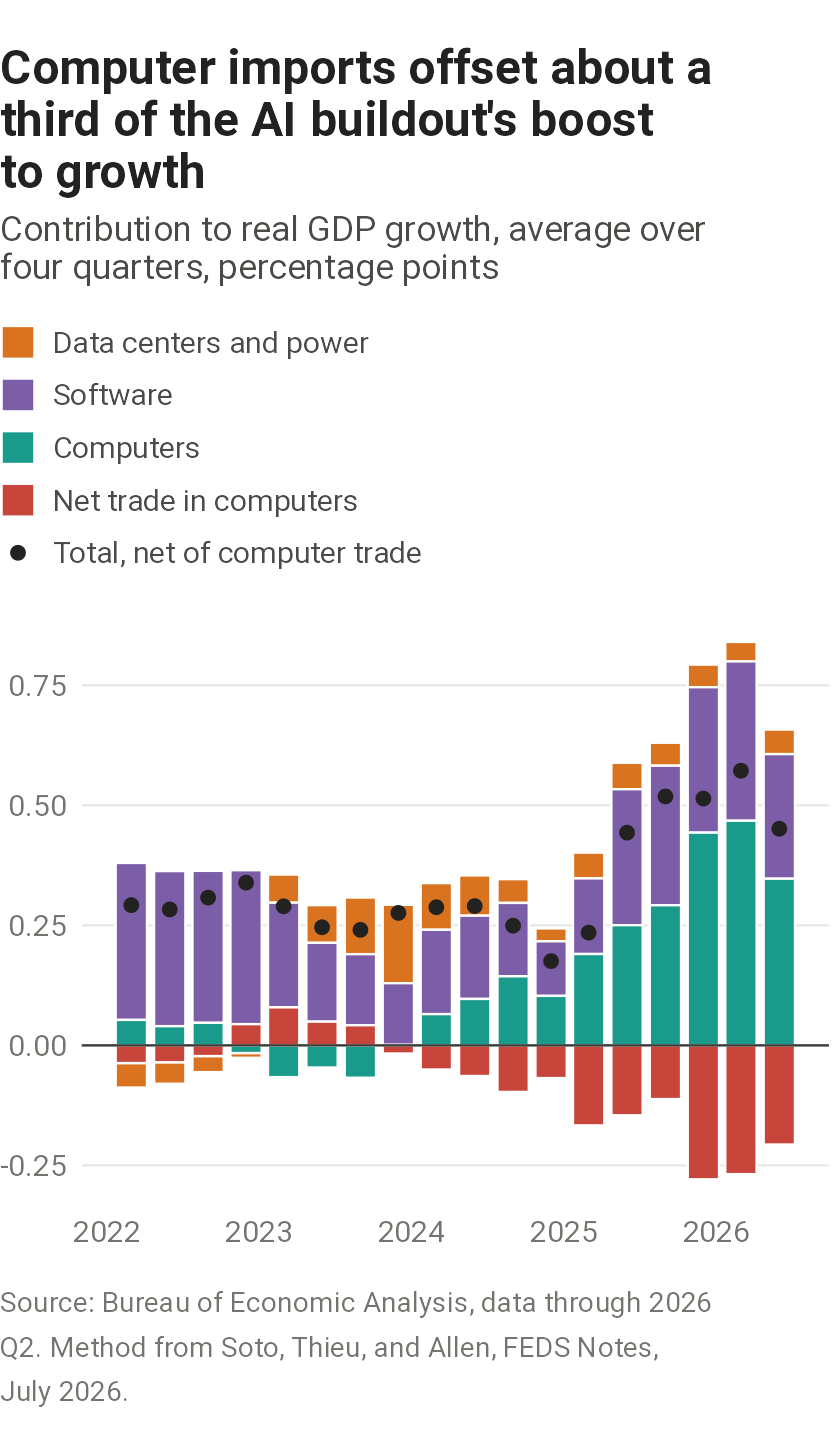
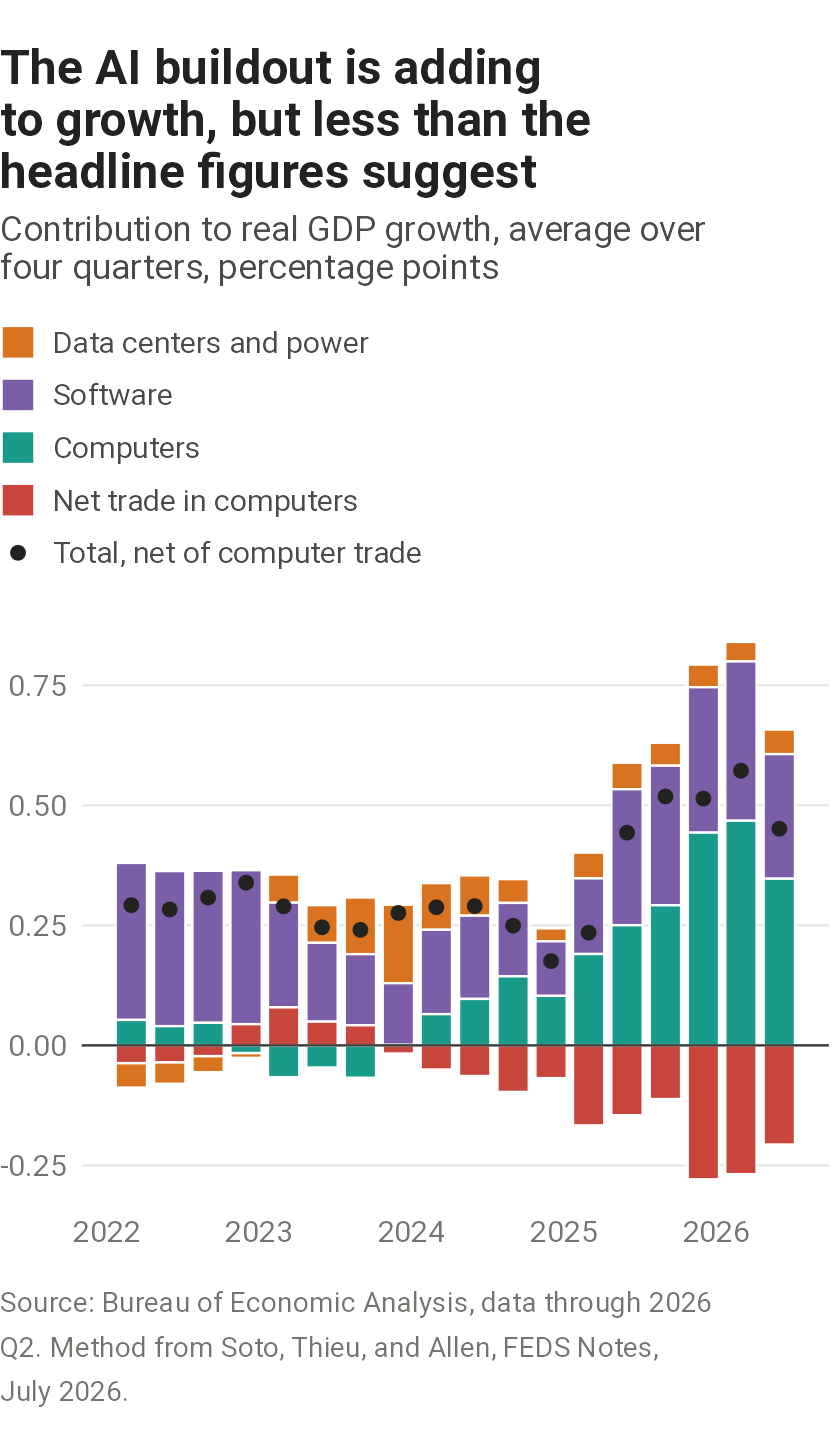
Retitle the AI investment chart to state both points
Claude-Session: https://claude.ai/code/session_01C4kQtTHdakDNHHerQuEFwM

Changed region(s): [[0.0, 0.0312, 0.8667, 0.1562]]

diff --git a/charts/ai-investment-gdp/spec.md b/charts/ai-investment-gdp/spec.md
@@ -168,3 +168,4 @@ As of 2026-09-26. Not yet decided or done.
 - 2026-09-26: The text names the four components rather than calling the total "AI investment", since they also carry spending unrelated to AI: the same components added about 0.3 point a year to growth in 2022 and 2023. The chart subtitle drops "AI-related" for the same reason.
 - 2026-09-26: Plot four-quarter averages instead of quarterly contributions, as the text does, since quarterly bars swing too much to show the trend. Replaces the earlier decision to show quarterly contributions as the note does; `reproduce.R` still checks the quarterly figures. Tried splitting into two charts (gross by component, then gross against net); dropped because the first would stand alone on the headline figure the chart argues is overstated.
 - 2026-09-26: Chart and text use the FEDS method only; title back to "about a third." The alternatives (BEA domestic-use weight in `trade_weights.R`, investment-price deflation in `import_prices.R`) give 0.34 to 0.41 point net over the four quarters through 2026 Q2, against 0.45. The gap is about a tenth of a point, doesn't change the story, and comes mostly from 2026 Q2, when import prices rose faster than investment prices. Rerun both on each refresh; if the gap stays wide, show the range on the chart again.
+- 2026-09-26: Title: "The AI buildout is adding to growth, but less than the headline figures suggest." States both points of the text, in its order; the size of the offset is left to the text and chart.
